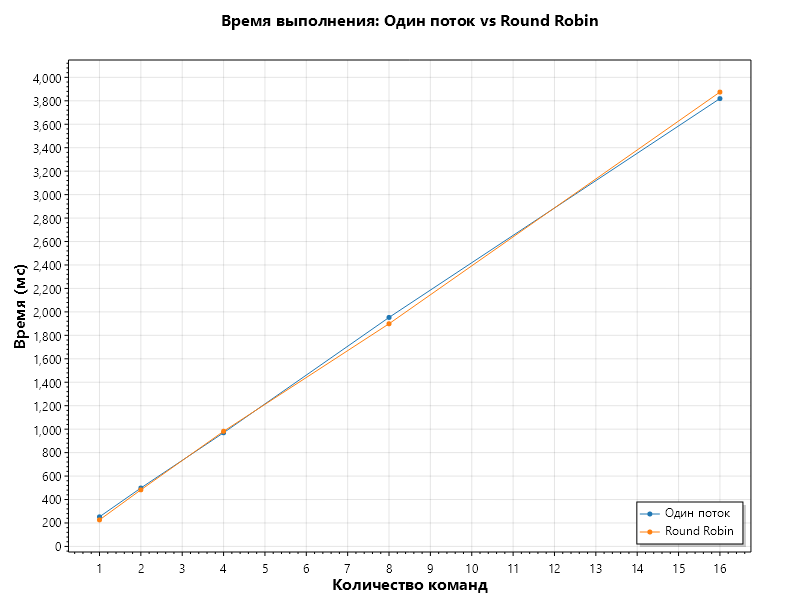
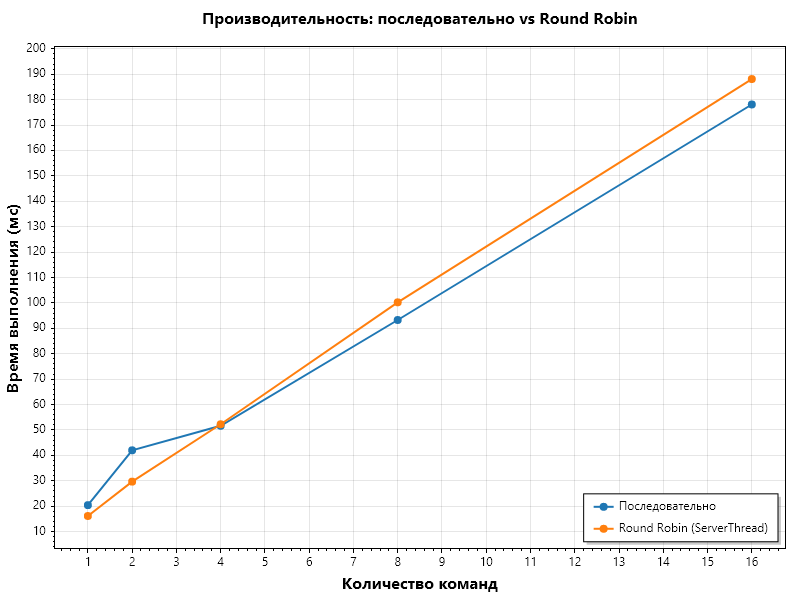
Fix

diff --git a/ServerThreadTests/ServerThreadTests.cs b/ServerThreadTests/ServerThreadTests.cs
@@ -3,25 +3,25 @@ using System;
 using System.Linq;
 using System.Threading;
 using task17;
-using Task17;
 
-namespace Task17.Tests
+
+namespace task17tests
 {
     public class SimpleCommand : ICommand
     {
-        private readonly Action _action;
-        public SimpleCommand(Action action = null) => _action = action;
+        private readonly Action? _action;
+        public SimpleCommand(Action? action = null) => _action = action;
         public void Execute() => _action?.Invoke();
     }
 
     public class LongCommand : ILongCommand
     {
         private int _remaining;
-        private readonly Action _onExecute;
+        private readonly Action? _onExecute;
         public bool IsCompleted => _remaining <= 0;
         public string Name { get; }
 
-        public LongCommand(int required, string name = "", Action onExecute = null)
+        public LongCommand(int required, string name = "", Action? onExecute = null)
         {
             _remaining = required;
             Name = name;
@@ -38,22 +38,14 @@ namespace Task17.Tests
         }
     }
 
-    public class SimpleScheduler : IScheduler
-    {
-        private readonly System.Collections.Generic.Queue<ICommand> _queue = new();
-        public void Add(ICommand cmd) { if (cmd != null) _queue.Enqueue(cmd); }
-        public bool HasCommand() => _queue.Count > 0;
-        public ICommand Select() => _queue.Count > 0 ? _queue.Dequeue() : null;
-    }
-
     public class ServerThreadTests : IDisposable
     {
-        private readonly SimpleScheduler _scheduler;
+        private readonly RoundRobinScheduler _scheduler;
         private readonly ServerThread _serverThread;
 
         public ServerThreadTests()
         {
-            _scheduler = new SimpleScheduler();
+            _scheduler = new RoundRobinScheduler();
             _serverThread = new ServerThread(_scheduler);
         }
 
@@ -89,7 +81,7 @@ namespace Task17.Tests
         }
 
         [Fact]
-        public void SoftStop_ProcessesSchedulerCommandsBeforeStopping()
+        public void SoftStop_ProcessesLongCommandsBeforeStopping()
         {
             var counter = 0;
             var longCmd = new LongCommand(5, onExecute: () => Interlocked.Increment(ref counter));
@@ -107,25 +99,66 @@ namespace Task17.Tests
         }
 
         [Fact]
-        public void Thread_DoesNotBlockOnEmptyQueue_WhenSchedulerHasCommands()
+        public void RoundRobin_CommandsExecuteWithCorrectCounts()
         {
-            var executed = false;
-            var simpleCmd = new SimpleCommand(() => executed = true);
+            var counterA = 0;
+            var counterB = 0;
+            var counterC = 0;
+            
+            var cmdA = new LongCommand(2, "A", () => Interlocked.Increment(ref counterA));
+            var cmdB = new LongCommand(2, "B", () => Interlocked.Increment(ref counterB));
+            var cmdC = new LongCommand(2, "C", () => Interlocked.Increment(ref counterC));
 
             _serverThread.Start();
+            _serverThread.Add(cmdA);
+            _serverThread.Add(cmdB);
+            _serverThread.Add(cmdC);
 
-            Thread.Sleep(50);
+            Thread.Sleep(500);
+            _serverThread.SoftStop();
+            _serverThread.Join();
 
-            _scheduler.Add(simpleCmd);
+            Assert.Equal(2, counterA);
+            Assert.Equal(2, counterB);
+            Assert.Equal(2, counterC);
+        }
 
-            _serverThread.Add(new SimpleCommand());
+        [Fact]
+        public void SimpleCommand_ExecutesOnceAndRemoved()
+        {
+            var counter = 0;
+            var simpleCmd = new SimpleCommand(() => Interlocked.Increment(ref counter));
 
+            _serverThread.Start();
+            _serverThread.Add(simpleCmd);
+            
             Thread.Sleep(200);
+            _serverThread.SoftStop();
+            _serverThread.Join();
+
+            Assert.Equal(1, counter);
+        }
+
+        [Fact]
+        public void HardStop_StopsBeforeCompletion()
+        {
+            var counter = 0;
+            var longCmd = new LongCommand(1000, onExecute: () => 
+            {
+                Interlocked.Increment(ref counter);
+                Thread.Sleep(1); 
+            });
+
+            _serverThread.Start();
+            _serverThread.Add(longCmd);
+            Thread.Sleep(50); 
+
             _serverThread.HardStop();
             var stopped = _serverThread.Thread.Join(TimeSpan.FromSeconds(2));
 
-            Assert.True(stopped, "Поток завис — возможен deadlock");
-            Assert.True(executed, "Команда из планировщика не выполнилась");
+            Assert.True(stopped, "Поток должен остановиться за 2 секунды");
+            Assert.True(counter < 1000, $"HardStop должен остановить выполнение немедленно. Выполнено: {counter}");
+            Assert.False(_serverThread.Thread.IsAlive);
         }
     }
 }

diff --git a/task17/RoundRubinScheduler.cs b/task17/RoundRubinScheduler.cs
@@ -1,8 +1,7 @@
 using System;
 using System.Collections.Generic;
-using task17;
 
-namespace Task17
+namespace task17
 {
     public class RoundRobinScheduler : IScheduler
     {
@@ -22,7 +21,15 @@ namespace Task17
             lock (_lock)
             {
                 if (_commands.Count == 0) return null;
-                return _commands.Dequeue();
+                
+                var command = _commands.Dequeue();
+                
+                if (command is ILongCommand longCommand && !longCommand.IsCompleted)
+                {
+                    _commands.Enqueue(command);
+                }
+                
+                return command;
             }
         }
 

diff --git a/task17/HardStopCommand.cs b/task17/HardStopCommand.cs
@@ -1,6 +1,6 @@
 using System;
 using System.Threading;
-using Task17;
+using task17;
 
 
 namespace task17

diff --git a/task17/ServerThread.cs b/task17/ServerThread.cs
@@ -3,7 +3,7 @@ using System.Collections.Concurrent;
 using System.Threading;
 using task17;
 
-namespace Task17
+namespace task17
 {
     public class ServerThread
     {

diff --git a/task17/SoftStopCommand.cs b/task17/SoftStopCommand.cs
@@ -1,6 +1,6 @@
 using System;
 using System.Threading;
-using Task17;
+using task17;
 
 
 namespace task17